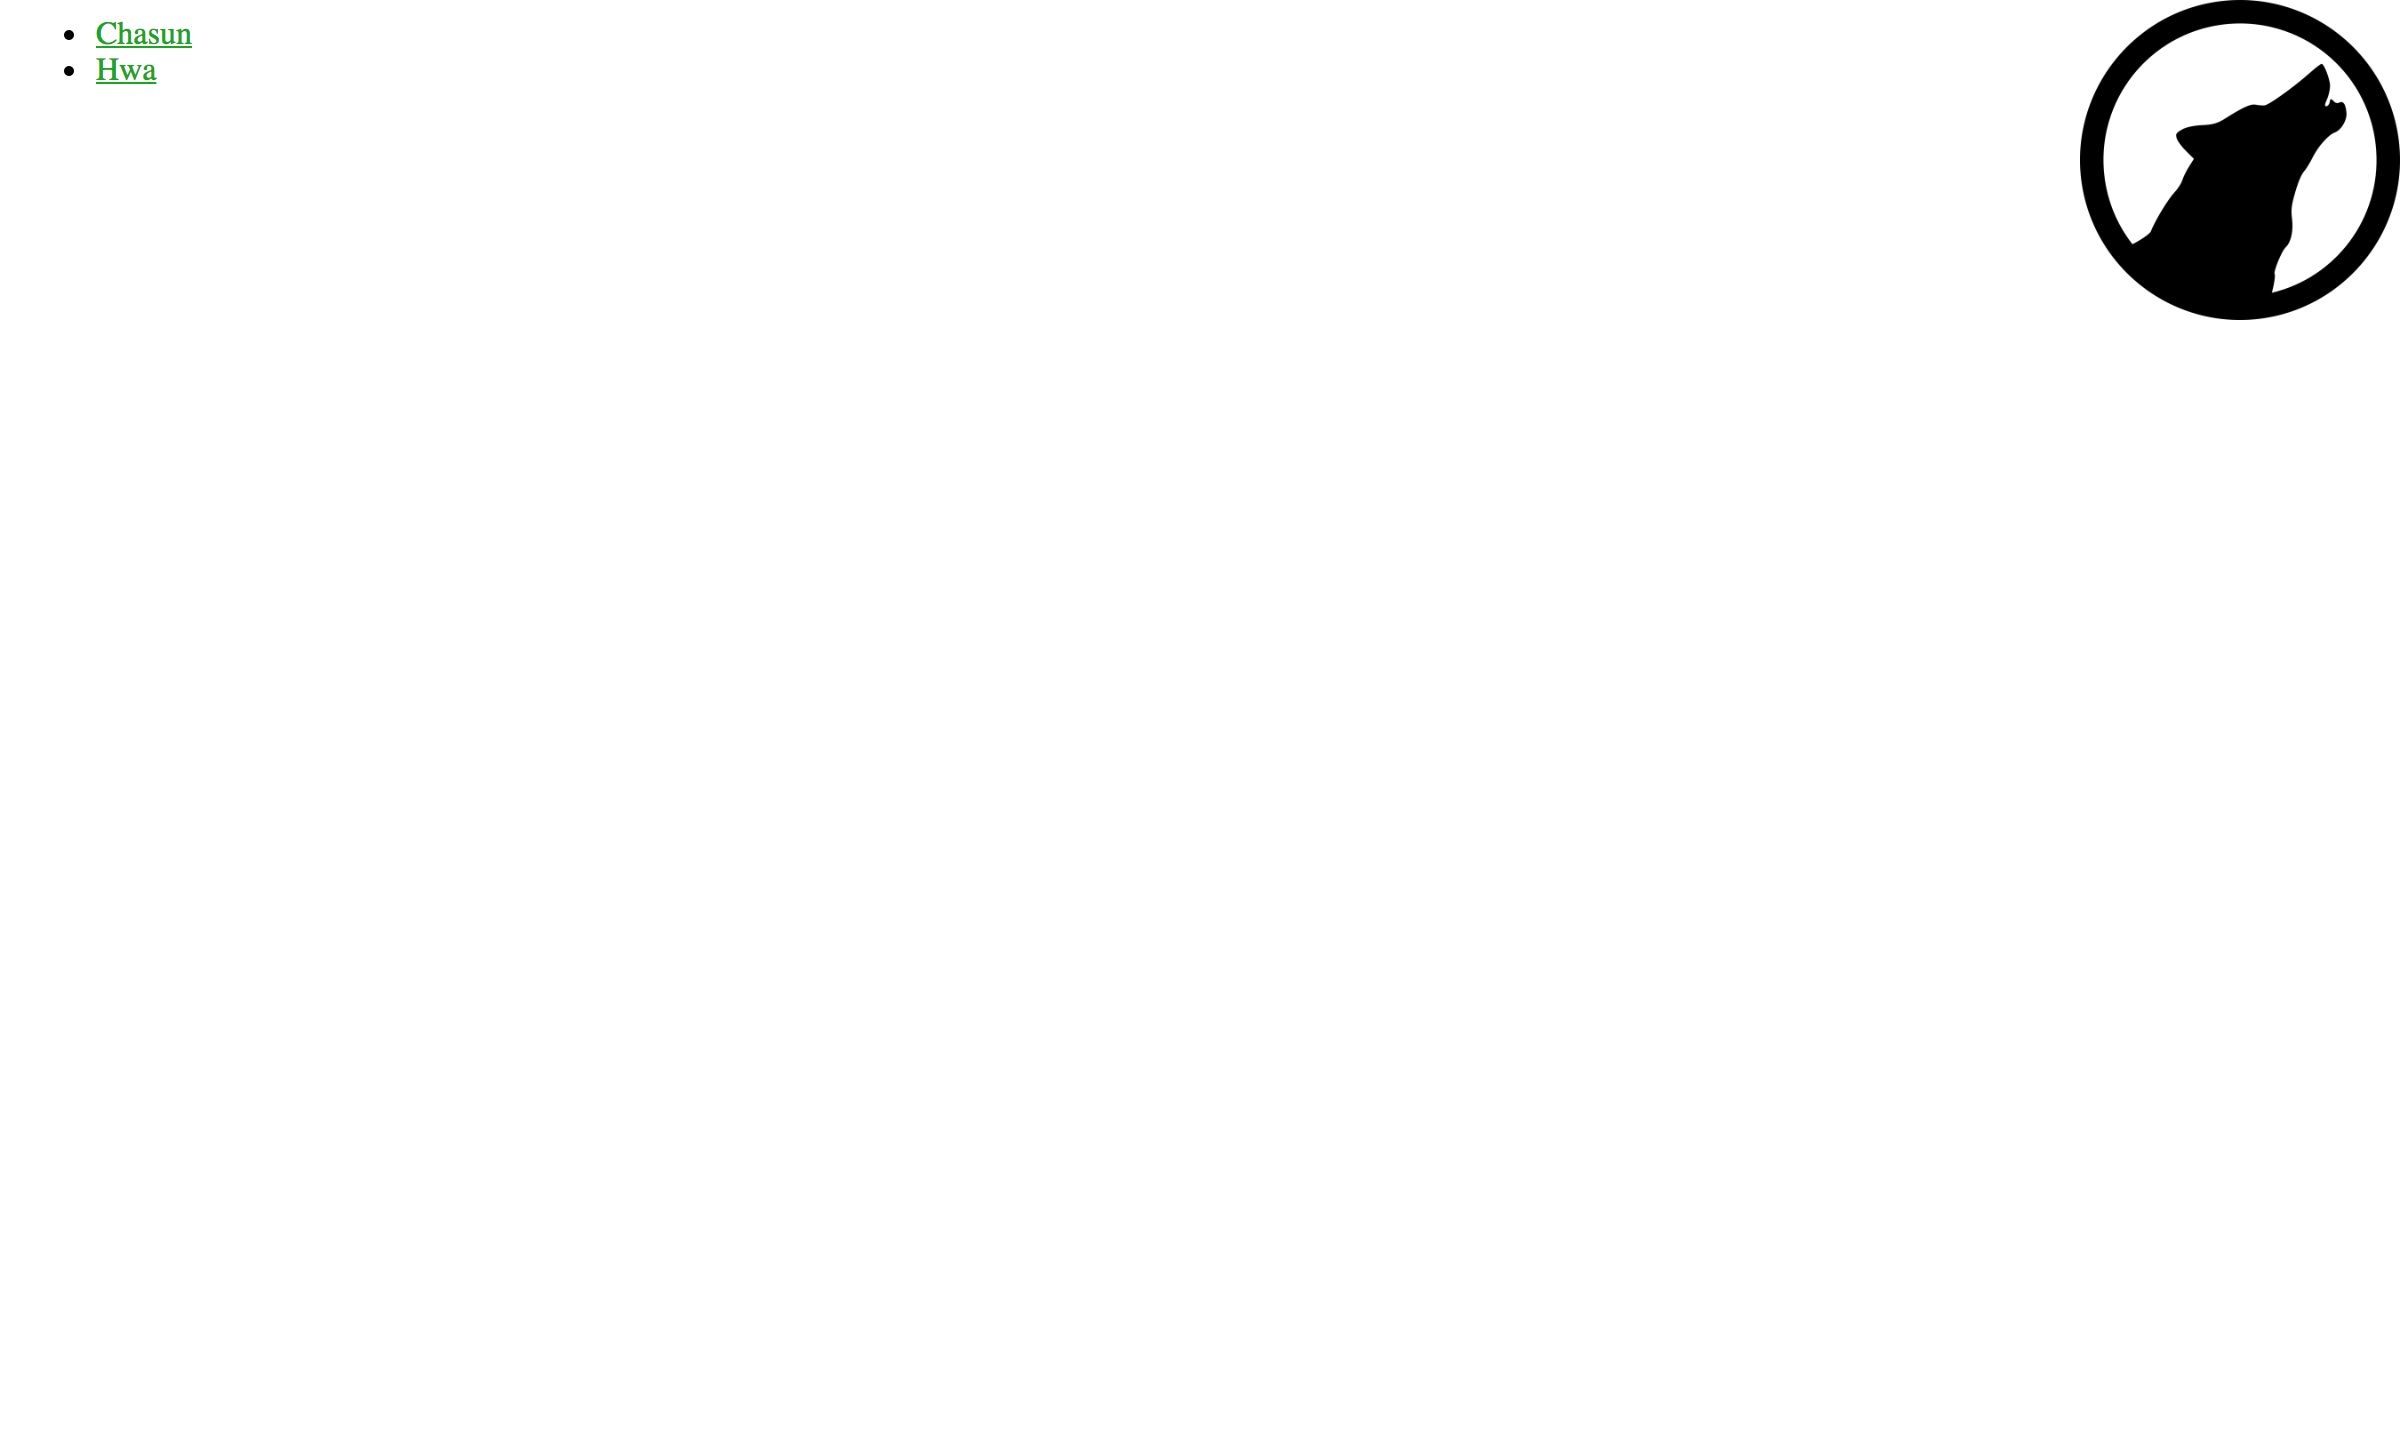
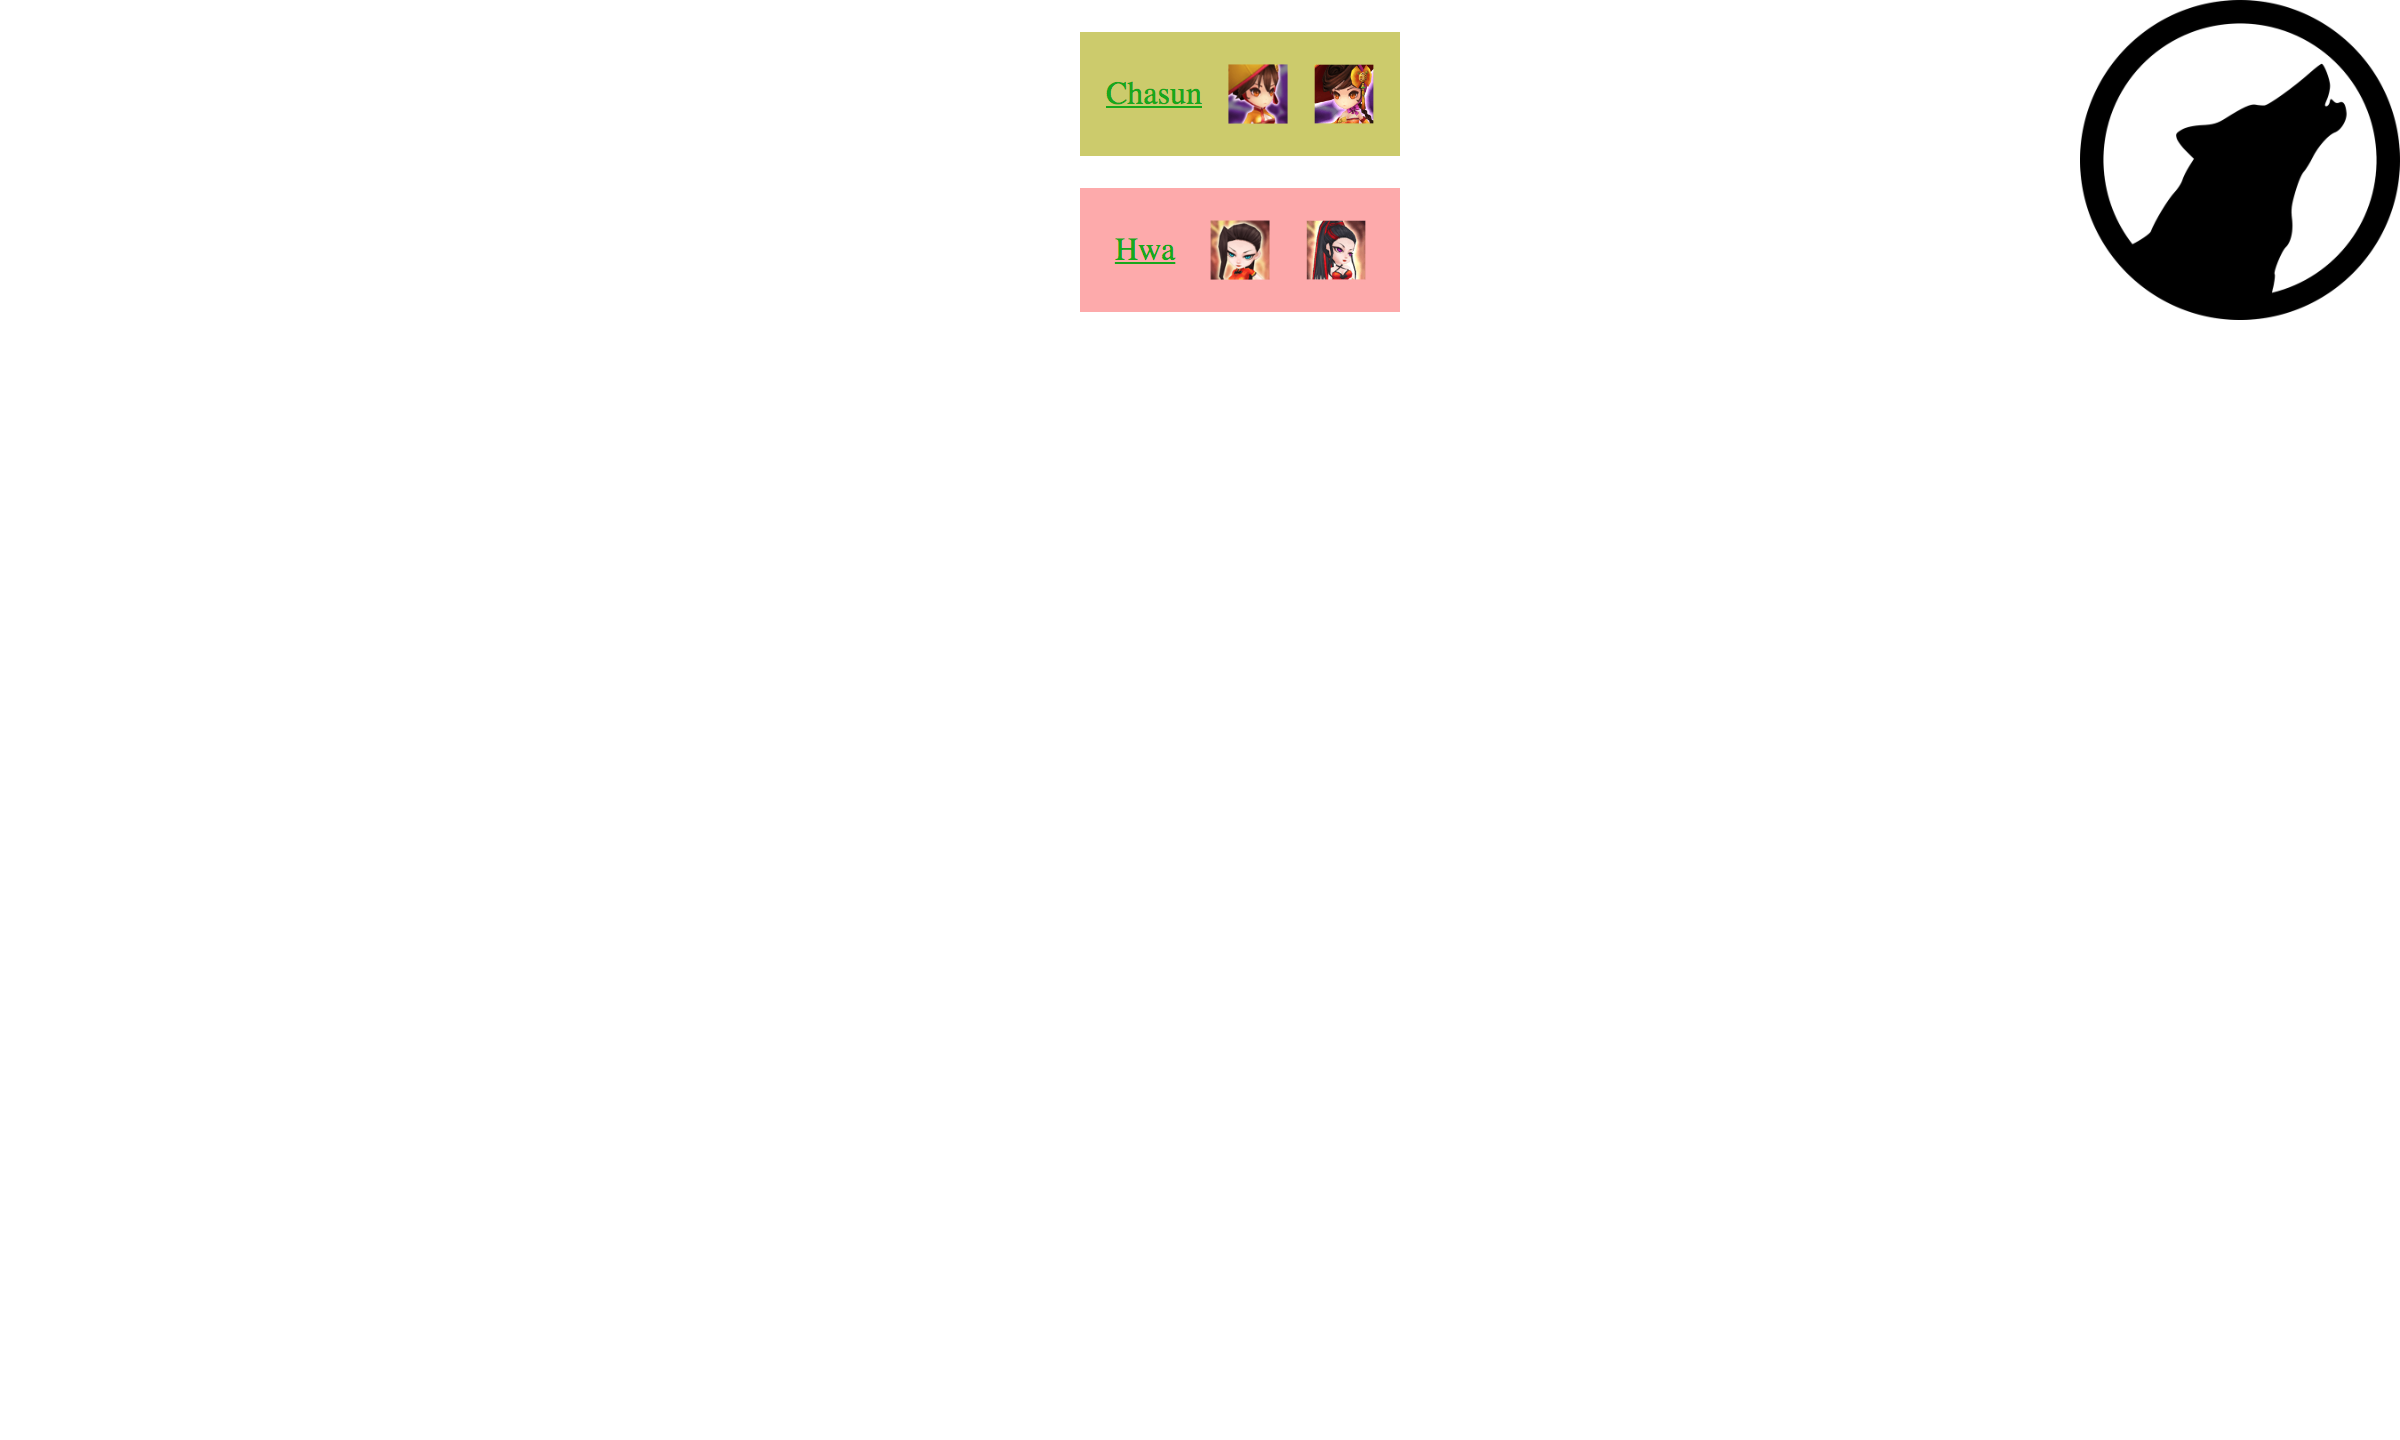
Added some basic style
* Also had to update the model for image links (max length was too short)
* Added migration to fix issue above
* Updated screenshots

Changed region(s): [[0.4375, 0.0, 0.5938, 0.2188], [0.0312, 0.0, 0.0938, 0.0625]]

diff --git a/website/mons/templates/mons/detail.html b/website/mons/templates/mons/detail.html
@@ -5,69 +5,146 @@
 
 {% if error_message %}<p><strong>{{ error_message }}</strong></p>{% endif %}
 
-<table>
-    <thead>
-        <tr>
-            <th>Stat</th>
-            <th>Detail</th>
-        </tr>
-    </thead>
-    <tbody>
-        <tr>
-            <td>Awakened Name</td>
-            <td>{{ monster.awaken_name }}</td>
-        </tr>
-        <tr>
-            <td>Element</td>
-            <td>{{ monster.element }}</td>
-        </tr>
-        <tr>
-            <td>Get From</td>
-            <td>{{ monster.get_from }}</td>
-        </tr>
-        <tr>
-            <td>Good For</td>
-            <td>{{ monster.good_for }}</td>
-        </tr>
-        <tr>
-            <td>Grade</td>
-            <td>{{ monster.grade }}</td>
-        </tr>
-        <tr>
-            <td>Grade Number</td>
-            <td>{{ monster.grade_num }}</td>
-        </tr>
-        <tr>
-            <td>Links</td>
-            <td></td>
-        </tr>
-        <tr>
-            <td>Monster Type</td>
-            <td>{{ monster.mon_type }}</td>
-        </tr>
-        <tr>
-            <td>Ratings</td>
-            <td></td>
-        </tr>
-        <tr>
-            <td>Score Total</td>
-            <td>{{ monster.score_total }}</td>
-        </tr>
-        <tr>
-            <td>Score User</td>
-            <td>{{ monster.score_user }}</td>
-        </tr>
-        <tr>
-            <td>Skillup Info</td>
-            <td>{{ monster.skillup_info }}</td>
-        </tr>
-        <tr>
-            <td>Sleepy Name</td>
-            <td>{{ monster.sleepy_name }}</td>
-        </tr>
-        <tr>
-            <td>When Awakened</td>
-            <td>{{ monster.when_awakened }}</td>
-        </tr>
-    </tbody>
-</table>
+<div class="monster-detail {{ monster.element|lower }}">
+    <table>
+        <thead>
+            <tr>
+                <th>Stat</th>
+                <th>Detail</th>
+            </tr>
+        </thead>
+        <tbody>
+            <tr>
+                <td>Awakened Name</td>
+                <td>{{ monster.awaken_name }}</td>
+            </tr>
+            <tr>
+                <td>Element</td>
+                <td>{{ monster.element }}</td>
+            </tr>
+            <tr>
+                <td>Get From</td>
+                <td>{{ monster.get_from }}</td>
+            </tr>
+            <tr>
+                <td>Good For</td>
+                <td>{{ monster.good_for }}</td>
+            </tr>
+            <tr>
+                <td>Grade</td>
+                <td>{{ monster.grade }}</td>
+            </tr>
+            <tr>
+                <td>Grade Number</td>
+                <td>{{ monster.grade_num }}</td>
+            </tr>
+            <tr>
+                <td>Images</td>
+                <td>
+                    <div class="img-container">
+                        <p>Sleepy</p>
+                        <a href="{{monster.image_sleepy }}" target="_blank">
+                            <img src="{{ monster.image_sleepy }}" alt="{{ monster.sleepy_name }} Sleepy Image" class="monster-img" />
+                        </a>
+                    </div>
+                    <div class="img-container">
+                        <p>Awake</p>
+                        <a href="{{monster.image_awake }}" target="_blank">
+                            <img src="{{ monster.image_awake }}" alt="{{ monster.awaken_name }} Awakened Image" class="monster-img" />
+                        </a>
+                    </div>
+                </td>
+            </tr>
+            <tr>
+                <td>Links</td>
+                <td>
+                    <table>
+                        <thead>
+                            <tr>
+                                <th>Link Type</th>
+                                <th>Link</th>
+                            </tr>
+                        </thead>
+                        <tbody>
+                            <tr>
+                                <td>Dark Link</td>
+                                <td><a href="{{ monster.link_dark }}" target="_blank">{{ monster.link_dark }}</a></td>
+                            </tr>
+                            <tr>
+                                <td>Fire Link</td>
+                                <td><a href="{{ monster.link_fire }}" target="_blank">{{ monster.link_fire }}</a></td>
+                            </tr>
+                            <tr>
+                                <td>Light Link</td>
+                                <td><a href="{{ monster.link_light }}" target="_blank">{{ monster.link_light }}</a></td>
+                            </tr>
+                            <tr>
+                                <td>Water Link</td>
+                                <td><a href="{{ monster.link_water }}" target="_blank">{{ monster.link_water }}</a></td>
+                            </tr>
+                            <tr>
+                                <td>Wind Link</td>
+                                <td><a href="{{ monster.link_wind }}" target="_blank">{{ monster.link_wind }}</a></td>
+                            </tr>
+                        </tbody>
+                    </table>
+                </td>
+            </tr>
+            <tr>
+                <td>Monster Type</td>
+                <td>{{ monster.mon_type }}</td>
+            </tr>
+            <tr>
+                <td>Ratings</td>
+                <td>
+                    <table>
+                        <thead>
+                            <tr>
+                                <th>Rating Type</th>
+                                <th>Rating</th>
+                            </tr>
+                        </thead>
+                        <tbody>
+                            <tr>
+                                <td>Keep It</td>
+                                <td>{{ monster.rating_keep }}</td>
+                            </tr>
+                            <tr>
+                                <td>Food</td>
+                                <td>{{ monster.rating_food }}</td>
+                            </tr>
+                            <tr>
+                                <td>The Best</td>
+                                <td>{{ monster.rating_best }}</td>
+                            </tr>
+                            <tr>
+                                <td>Meh</td>
+                                <td>{{ monster.rating_meh }}</td>
+                            </tr>
+                        </tbody>
+                    </table>
+                </td>
+            </tr>
+            <tr>
+                <td>Score Total</td>
+                <td>{{ monster.score_total }}</td>
+            </tr>
+            <tr>
+                <td>Score User</td>
+                <td>{{ monster.score_user }}</td>
+            </tr>
+            <tr>
+                <td>Skillup Info</td>
+                <td>{{ monster.skillup_info }}</td>
+            </tr>
+            <tr>
+                <td>Sleepy Name</td>
+                <td>{{ monster.sleepy_name }}</td>
+            </tr>
+            <tr>
+                <td>When Awakened</td>
+                <td>{{ monster.when_awakened }}</td>
+            </tr>
+        </tbody>
+    </table>
+</div>

diff --git a/website/mons/static/mons/style.css b/website/mons/static/mons/style.css
@@ -7,3 +7,89 @@ body {
 a {
     color: #0a0;
 }
+
+.monster-detail {
+    background-color: #fff;
+    border: 1px solid #333;
+    max-width: 800px;
+    margin: 2em auto;
+    opacity: 0.85;
+    padding: 2em;
+}
+
+.monster-detail.fire,
+.monster-list-item.fire {
+    background-color: #faa;
+}
+
+.monster-detail.dark,
+.monster-list-item.dark {
+    background-color: #a6a;
+}
+
+.monster-detail.light,
+.monster-list-item.light {
+    background-color: #ddd;
+}
+
+.monster-detail.water,
+.monster-list-item.water {
+    background-color: #66e;
+}
+
+.monster-detail.wind,
+.monster-list-item.wind {
+    background-color: #cc6;
+}
+
+.monster-detail td {
+    background-color: #eee;
+    border: 0;
+    border-collapse: collapse;
+    margin: 0;
+    padding: 1em;
+}
+
+.monster-detail td:nth-of-type(1) {
+    font-weight: bold;
+    background-color: inherit;
+}
+
+.img-container {
+    display: inline-block;
+}
+
+.monster-img {
+    max-height: 100px;
+    max-width: 100px;
+    min-height: 100px;
+    min-width: 100px;
+}
+
+.monster-img.img-mini {
+    max-height: 30px;
+    max-width: 30px;
+    min-height: 30px;
+    min-width: 30px;
+}
+
+.monster-list-item {
+    background-color: #fff;
+    display: block;
+    list-style-type: none;
+    margin: 1em auto;
+    max-width: 10em;
+}
+
+.monster-list-item a {
+    align-items: center;
+    display: flex;
+    flex-direction: row;
+    flex-wrap: nowrap;
+    justify-content: space-evenly;
+}
+
+.monster-list-item a * {
+    flex: 'flex-grow';
+    margin: 0.5em 0;
+}

diff --git a/website/mons/templates/mons/index.html b/website/mons/templates/mons/index.html
@@ -4,7 +4,20 @@
 {% if monster_list %}
     <ul>
     {% for monster in monster_list %}
-    <li><a href="{% url 'mons:detail' monster.id %}">{{ monster.awaken_name }}</a></li>
+    <li class="monster-list-item {{ monster.element|lower }}">
+        <a href="{% url 'mons:detail' monster.id %}">
+            <span>
+                {{ monster.awaken_name }}
+            </span>
+            <div class="monster-list-image-container">
+                <img src="{{ monster.image_sleepy }}" alt="{{ monster.sleepy_name }} Sleepy Image" class="monster-img img-mini" />
+            </div>
+            <div class="monster-list-image-container">
+                <img src="{{ monster.image_awake }}" alt="{{ monster.awaken_name }} Awakened Image" class="monster-img img-mini" />
+            </div>
+            
+        </a>
+    </li>
     {% endfor %}
     </ul>
 {% else %}

diff --git a/website/mons/migrations/0007_auto_20171229_1533.py b/website/mons/migrations/0007_auto_20171229_1533.py
@@ -1,0 +1,23 @@
+# Generated by Django 2.0 on 2017-12-29 22:33
+
+from django.db import migrations, models
+
+
+class Migration(migrations.Migration):
+
+    dependencies = [
+        ('mons', '0006_auto_20171229_1507'),
+    ]
+
+    operations = [
+        migrations.AlterField(
+            model_name='monster',
+            name='image_awake',
+            field=models.CharField(default='', max_length=150, verbose_name='Awake Image'),
+        ),
+        migrations.AlterField(
+            model_name='monster',
+            name='image_sleepy',
+            field=models.CharField(default='', max_length=150, verbose_name='Sleepy Image'),
+        ),
+    ]

diff --git a/website/mons/models.py b/website/mons/models.py
@@ -70,11 +70,11 @@ class Monster(models.Model):
         verbose_name='Grade Number')
     image_sleepy = models.CharField(
         default='',
-        max_length=100,
+        max_length=150,
         verbose_name='Sleepy Image')
     image_awake = models.CharField(
         default='',
-        max_length=100,
+        max_length=150,
         verbose_name='Awake Image')
     link_dark = models.CharField(
         default='',
